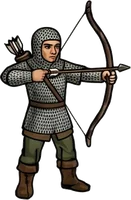
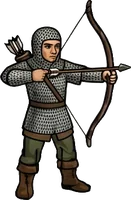
Sprites web : nettoyage des restes du détourage sur tous les sprites ; montages refusés et retirés
Claude-Session: https://claude.ai/code/session_01FsrEp3ep7FKxb7ckYRWhoq

diff --git a/tools/prepare-sprites.py b/tools/prepare-sprites.py
@@ -2,15 +2,18 @@
 """Prépare les versions web des sprites : art/unites/*.png (originaux, non publiés)
 → assets/unites/*.webp (publiés avec le site).
 
-Chaque sprite est recadré sur sa silhouette, ramené à HEIGHT pixels de haut (deux fois la
+Chaque sprite est d'abord nettoyé des restes du détourage (pixels presque transparents, liseré
+blanc du fond d'origine, petits trous, halo loin de la silhouette, îlots isolés), puis recadré sur sa silhouette, ramené à HEIGHT pixels de haut (deux fois la
 taille affichée, pour rester net sur les écrans à haute densité) et enregistré en WebP avec
-transparence. Outil : Pillow, utilisé hors du projet npm. À relancer après l'ajout d'un sprite :
+transparence. Outils : Pillow et NumPy, utilisés hors du projet npm. À relancer après l'ajout d'un sprite :
 
     python3 tools/prepare-sprites.py
 """
 
+from collections import deque
 from pathlib import Path
 
+import numpy as np
 from PIL import Image, ImageFilter
 
 ROOT = Path(__file__).resolve().parent.parent
@@ -18,25 +21,98 @@ SOURCE = ROOT / "art" / "unites"
 TARGET = ROOT / "assets" / "unites"
 HEIGHT = 200
 QUALITY = 85
-# Sprites dont on efface le halo : des pixels presque transparents, loin de la silhouette.
-CLEAN_HALO = {"EpeisteSansArmure"}
+# En dessous de cette opacité, un pixel est un reste du détourage.
+FAINT = 48
+# Un pixel plus clair que cela, et gris, au contact du dehors : reste du fond blanc.
+MATTE = 140
+# Un trou enfermé dans la silhouette plus petit que cela (en pixels) est rebouché.
+HOLE = 100
+# Un îlot plus petit que cette part de la plus grande masse est un reste du détourage.
+ISLAND = 0.02
 
 
-def without_halo(image: Image.Image) -> Image.Image:
+def without_halo(alpha: np.ndarray) -> np.ndarray:
     """Garde seulement les pixels proches (6 px) d'un pixel bien opaque."""
-    alpha = image.getchannel("A")
-    solid = alpha.point(lambda a: 255 if a >= 200 else 0)
-    near = solid.filter(ImageFilter.MaxFilter(13))
-    cleaned = Image.composite(alpha, Image.new("L", image.size, 0), near)
+    solid = Image.fromarray(np.where(alpha >= 200, 255, 0).astype(np.uint8))
+    near = np.asarray(solid.filter(ImageFilter.MaxFilter(13))) > 0
+    return np.where(near, alpha, 0)
+
+
+def components(mask: np.ndarray) -> list[list[tuple[int, int]]]:
+    """Les masses de pixels qui se touchent (y compris en diagonale)."""
+    h, w = mask.shape
+    seen = np.zeros_like(mask)
+    found = []
+    for y, x in zip(*np.nonzero(mask)):
+        if seen[y, x]:
+            continue
+        seen[y, x] = True
+        queue = deque([(int(y), int(x))])
+        pixels = []
+        while queue:
+            cy, cx = queue.popleft()
+            pixels.append((cy, cx))
+            for ny in range(max(cy - 1, 0), min(cy + 2, h)):
+                for nx in range(max(cx - 1, 0), min(cx + 2, w)):
+                    if mask[ny, nx] and not seen[ny, nx]:
+                        seen[ny, nx] = True
+                        queue.append((ny, nx))
+        found.append(pixels)
+    return found
+
+
+def without_islands(alpha: np.ndarray) -> np.ndarray:
+    parts = components(alpha > 0)
+    largest = max(len(p) for p in parts)
+    result = alpha.copy()
+    for part in parts:
+        if len(part) < largest * ISLAND:
+            ys, xs = zip(*part)
+            result[list(ys), list(xs)] = 0
+    return result
+
+
+def without_matte(rgba: np.ndarray, alpha: np.ndarray) -> np.ndarray:
+    """Efface le liseré clair laissé par le fond blanc d'origine : les pixels clairs et gris
+    qu'on atteint depuis le bord de l'image sans franchir le trait sombre du contour."""
+    rgb = rgba[..., :3].astype(np.int32)
+    light = (rgb.min(axis=2) >= MATTE) & (rgb.max(axis=2) - rgb.min(axis=2) <= 24)
+    passable = (alpha == 0) | light
+    h, w = alpha.shape
+    result = alpha.copy()
+    for part in components(passable):
+        if any(y in (0, h - 1) or x in (0, w - 1) for y, x in part):
+            ys, xs = zip(*part)
+            result[list(ys), list(xs)] = 0
+    return result
+
+
+def without_holes(alpha: np.ndarray) -> np.ndarray:
+    """Rebouche les petits trous du détourage enfermés dans la silhouette (reflets des plates
+    rendus transparents) : la couleur d'origine est restée sous la transparence."""
+    h, w = alpha.shape
+    result = alpha.copy()
+    for part in components(alpha < 200):
+        enclosed = not any(y in (0, h - 1) or x in (0, w - 1) for y, x in part)
+        if enclosed and len(part) < HOLE:
+            ys, xs = zip(*part)
+            result[list(ys), list(xs)] = 255
+    return result
+
+
+def cleaned(image: Image.Image) -> Image.Image:
+    alpha = np.asarray(image.getchannel("A")).copy()
+    alpha[alpha < FAINT] = 0
+    alpha = without_holes(without_matte(np.asarray(image), alpha))
+    alpha = without_islands(without_halo(alpha))
     result = image.copy()
-    result.putalpha(cleaned)
+    result.putalpha(Image.fromarray(alpha.astype(np.uint8)))
     return result
 
 
 def prepare(source: Path) -> Path:
     image = Image.open(source).convert("RGBA")
-    if source.stem in CLEAN_HALO:
-        image = without_halo(image)
+    image = cleaned(image)
     image = image.crop(image.getbbox())
     width = round(image.width * HEIGHT / image.height)
     image = image.resize((width, HEIGHT), Image.LANCZOS)

diff --git a/docs/journal.md b/docs/journal.md
@@ -492,3 +492,19 @@ Tir de passage, flanc, recul, encerclement : leurs paramètres restent dans `con
 - Deux escouades portent le même nom (« Archers ») dans la débandade : l'écran de préparation (1.4) devra donner des noms distincts.
 
 **Prochaine étape** : vérifier la version en ligne après la fusion, puis lot 1.4 (écran de préparation).
+
+## Lot 1.3b — Habillage léger de la bataille (en cours)
+
+### Fait jusqu'ici
+
+- Originaux des sprites déplacés dans `art/unites/` (versionnés, non publiés) ; versions web WebP de 200 px de haut dans `assets/unites/` (172 ko au total), produites par `tools/prepare-sprites.py` (Pillow et NumPy, hors du projet npm). Le script nettoie les restes du détourage sur tous les sprites : pixels presque transparents, liseré blanc du fond d'origine, petits trous enfermés dans la silhouette (reflets des plates), halo loin de la silhouette, îlots isolés.
+- Étape B : image fixe de la vague 1 au tour 6 (terrain dessiné par le code, palissade en pieux, tour de pierre, faille du portail, figurines, plaques).
+- Le moteur garde l'équipement de nos escouades et le type de chaque ennemi, pour l'affichage seulement (aucune règle).
+
+### Décisions prises
+
+- Montages ArcherPlates et mains nues essayés avec Pillow, puis refusés : on garde S1 A (l'archer en plates est affiché en mailles) et S2 B (jeton provisoire pour une escouade à mains nues). Le script de montage est retiré (principe 9).
+
+### Questions apparues
+
+- **Deux sprites restent à dessiner** : ArcherPlates et une escouade à mains nues.
